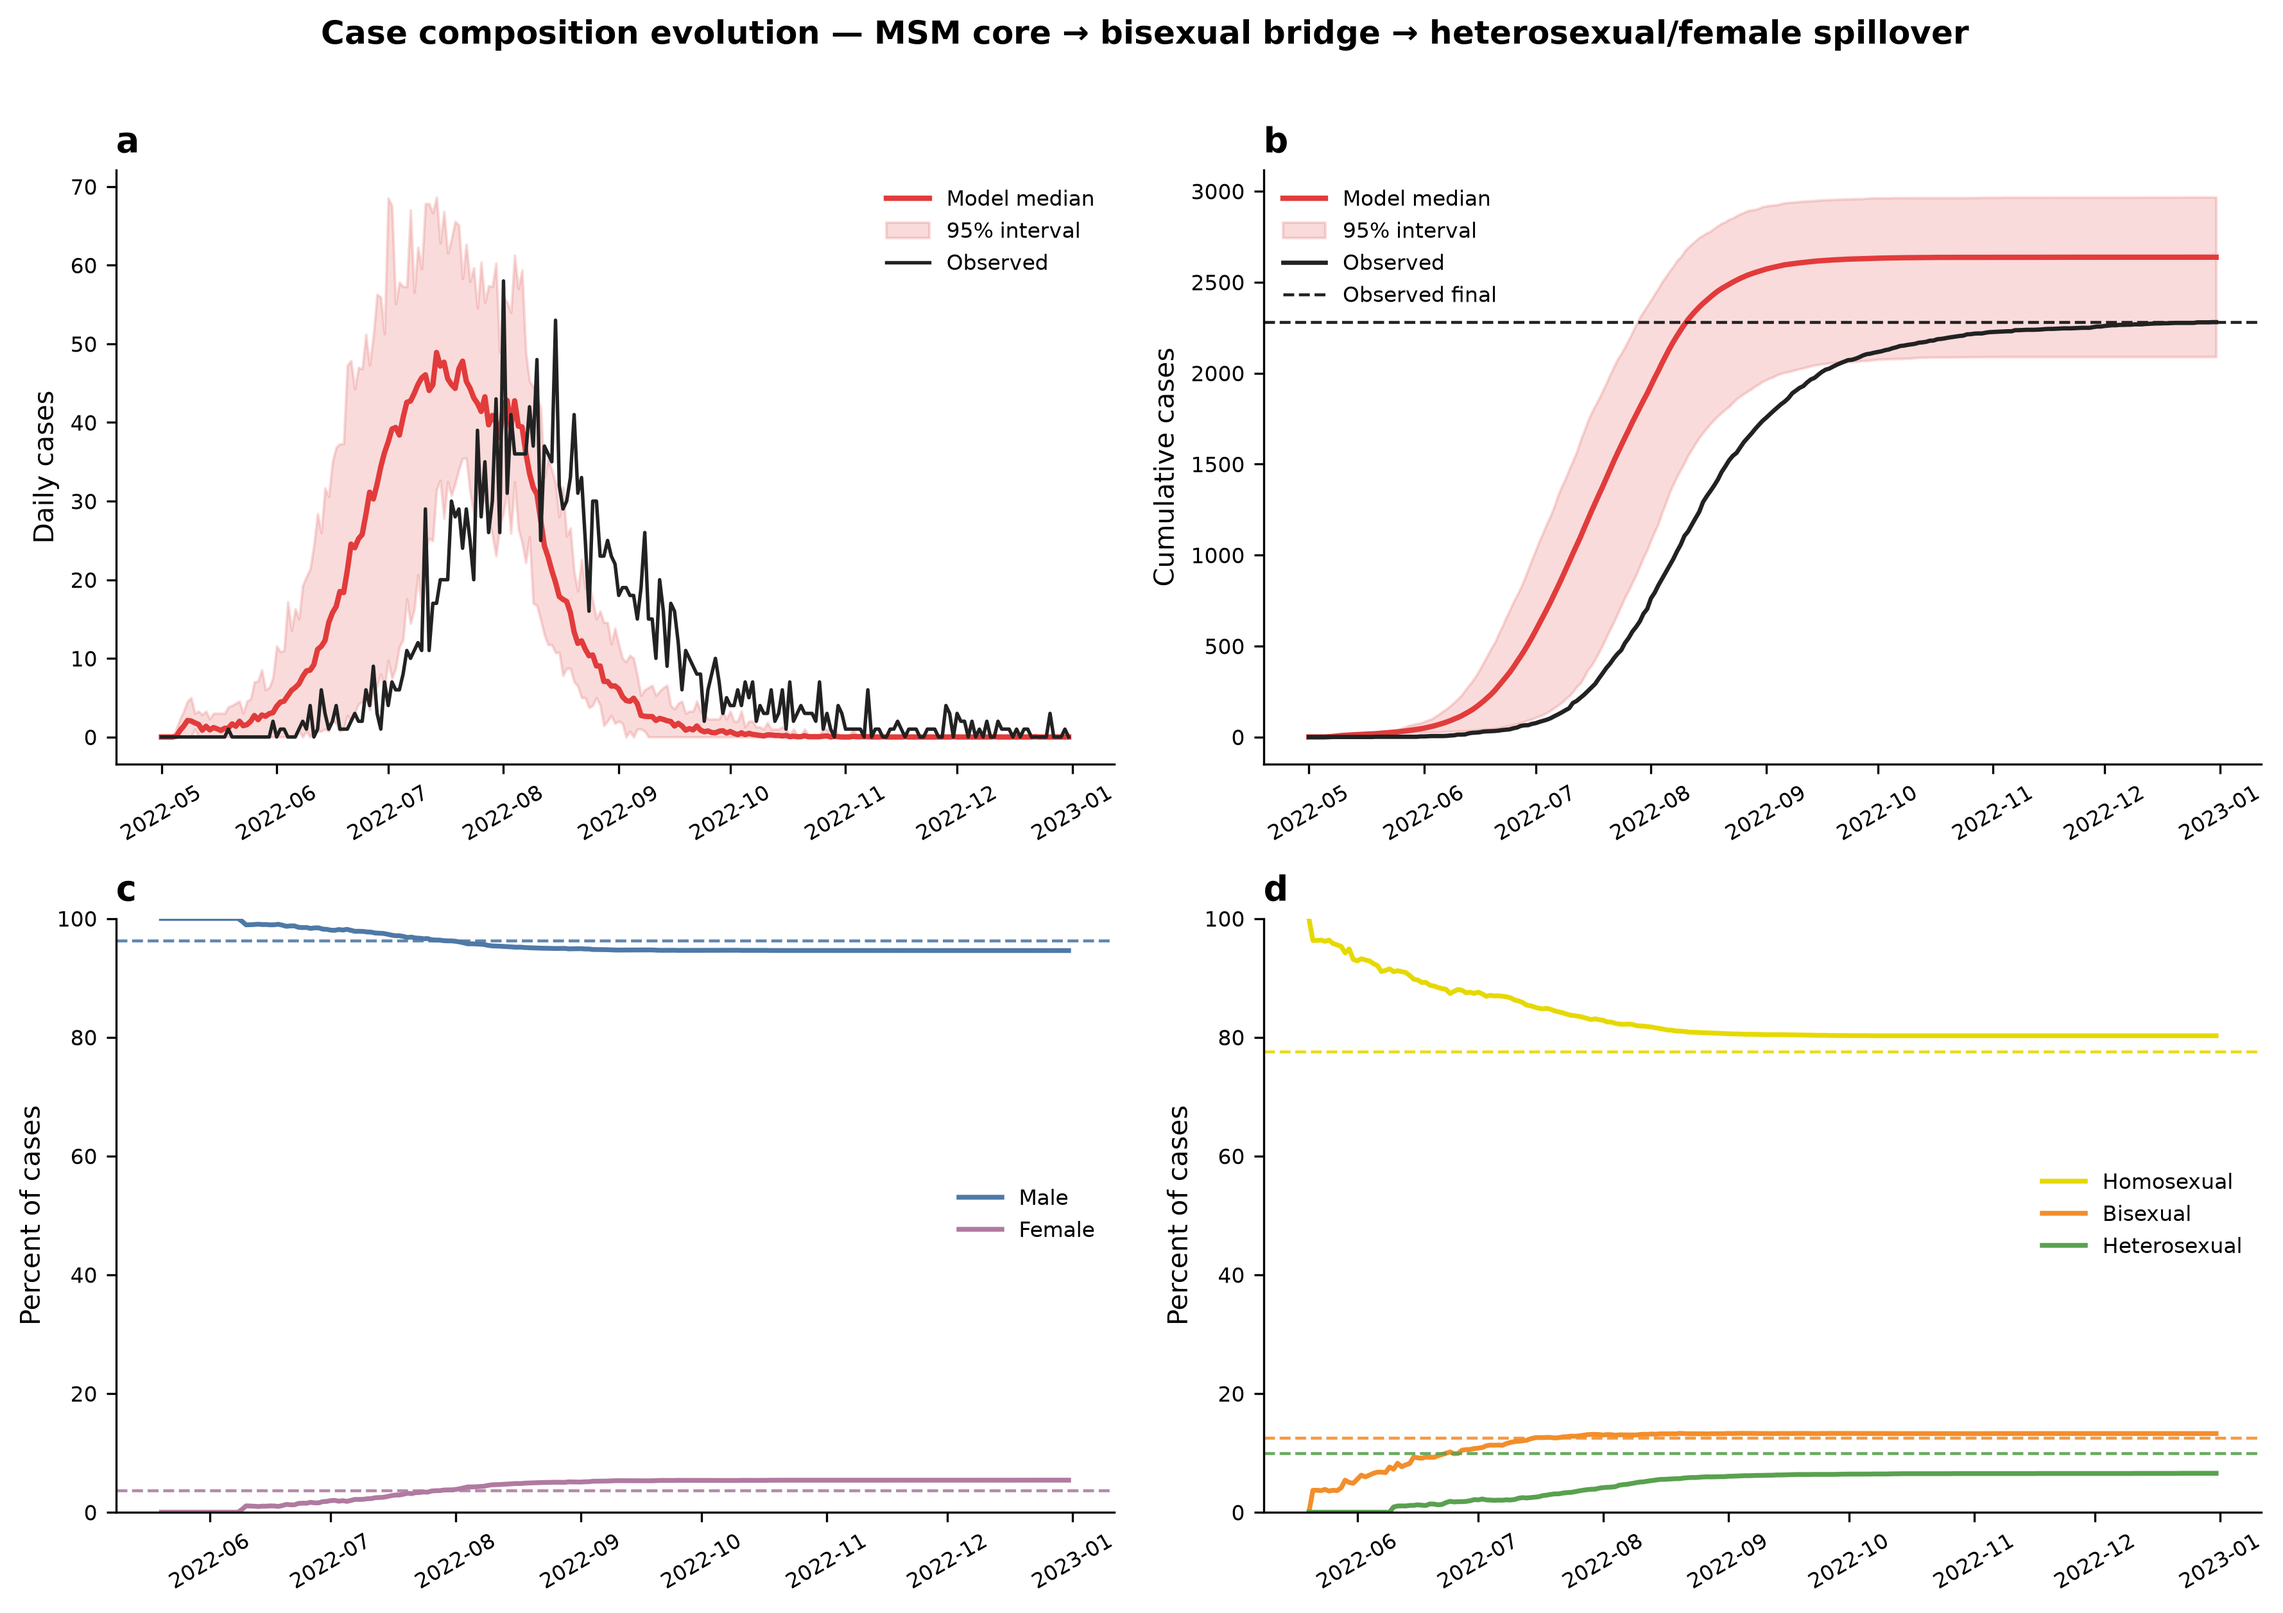
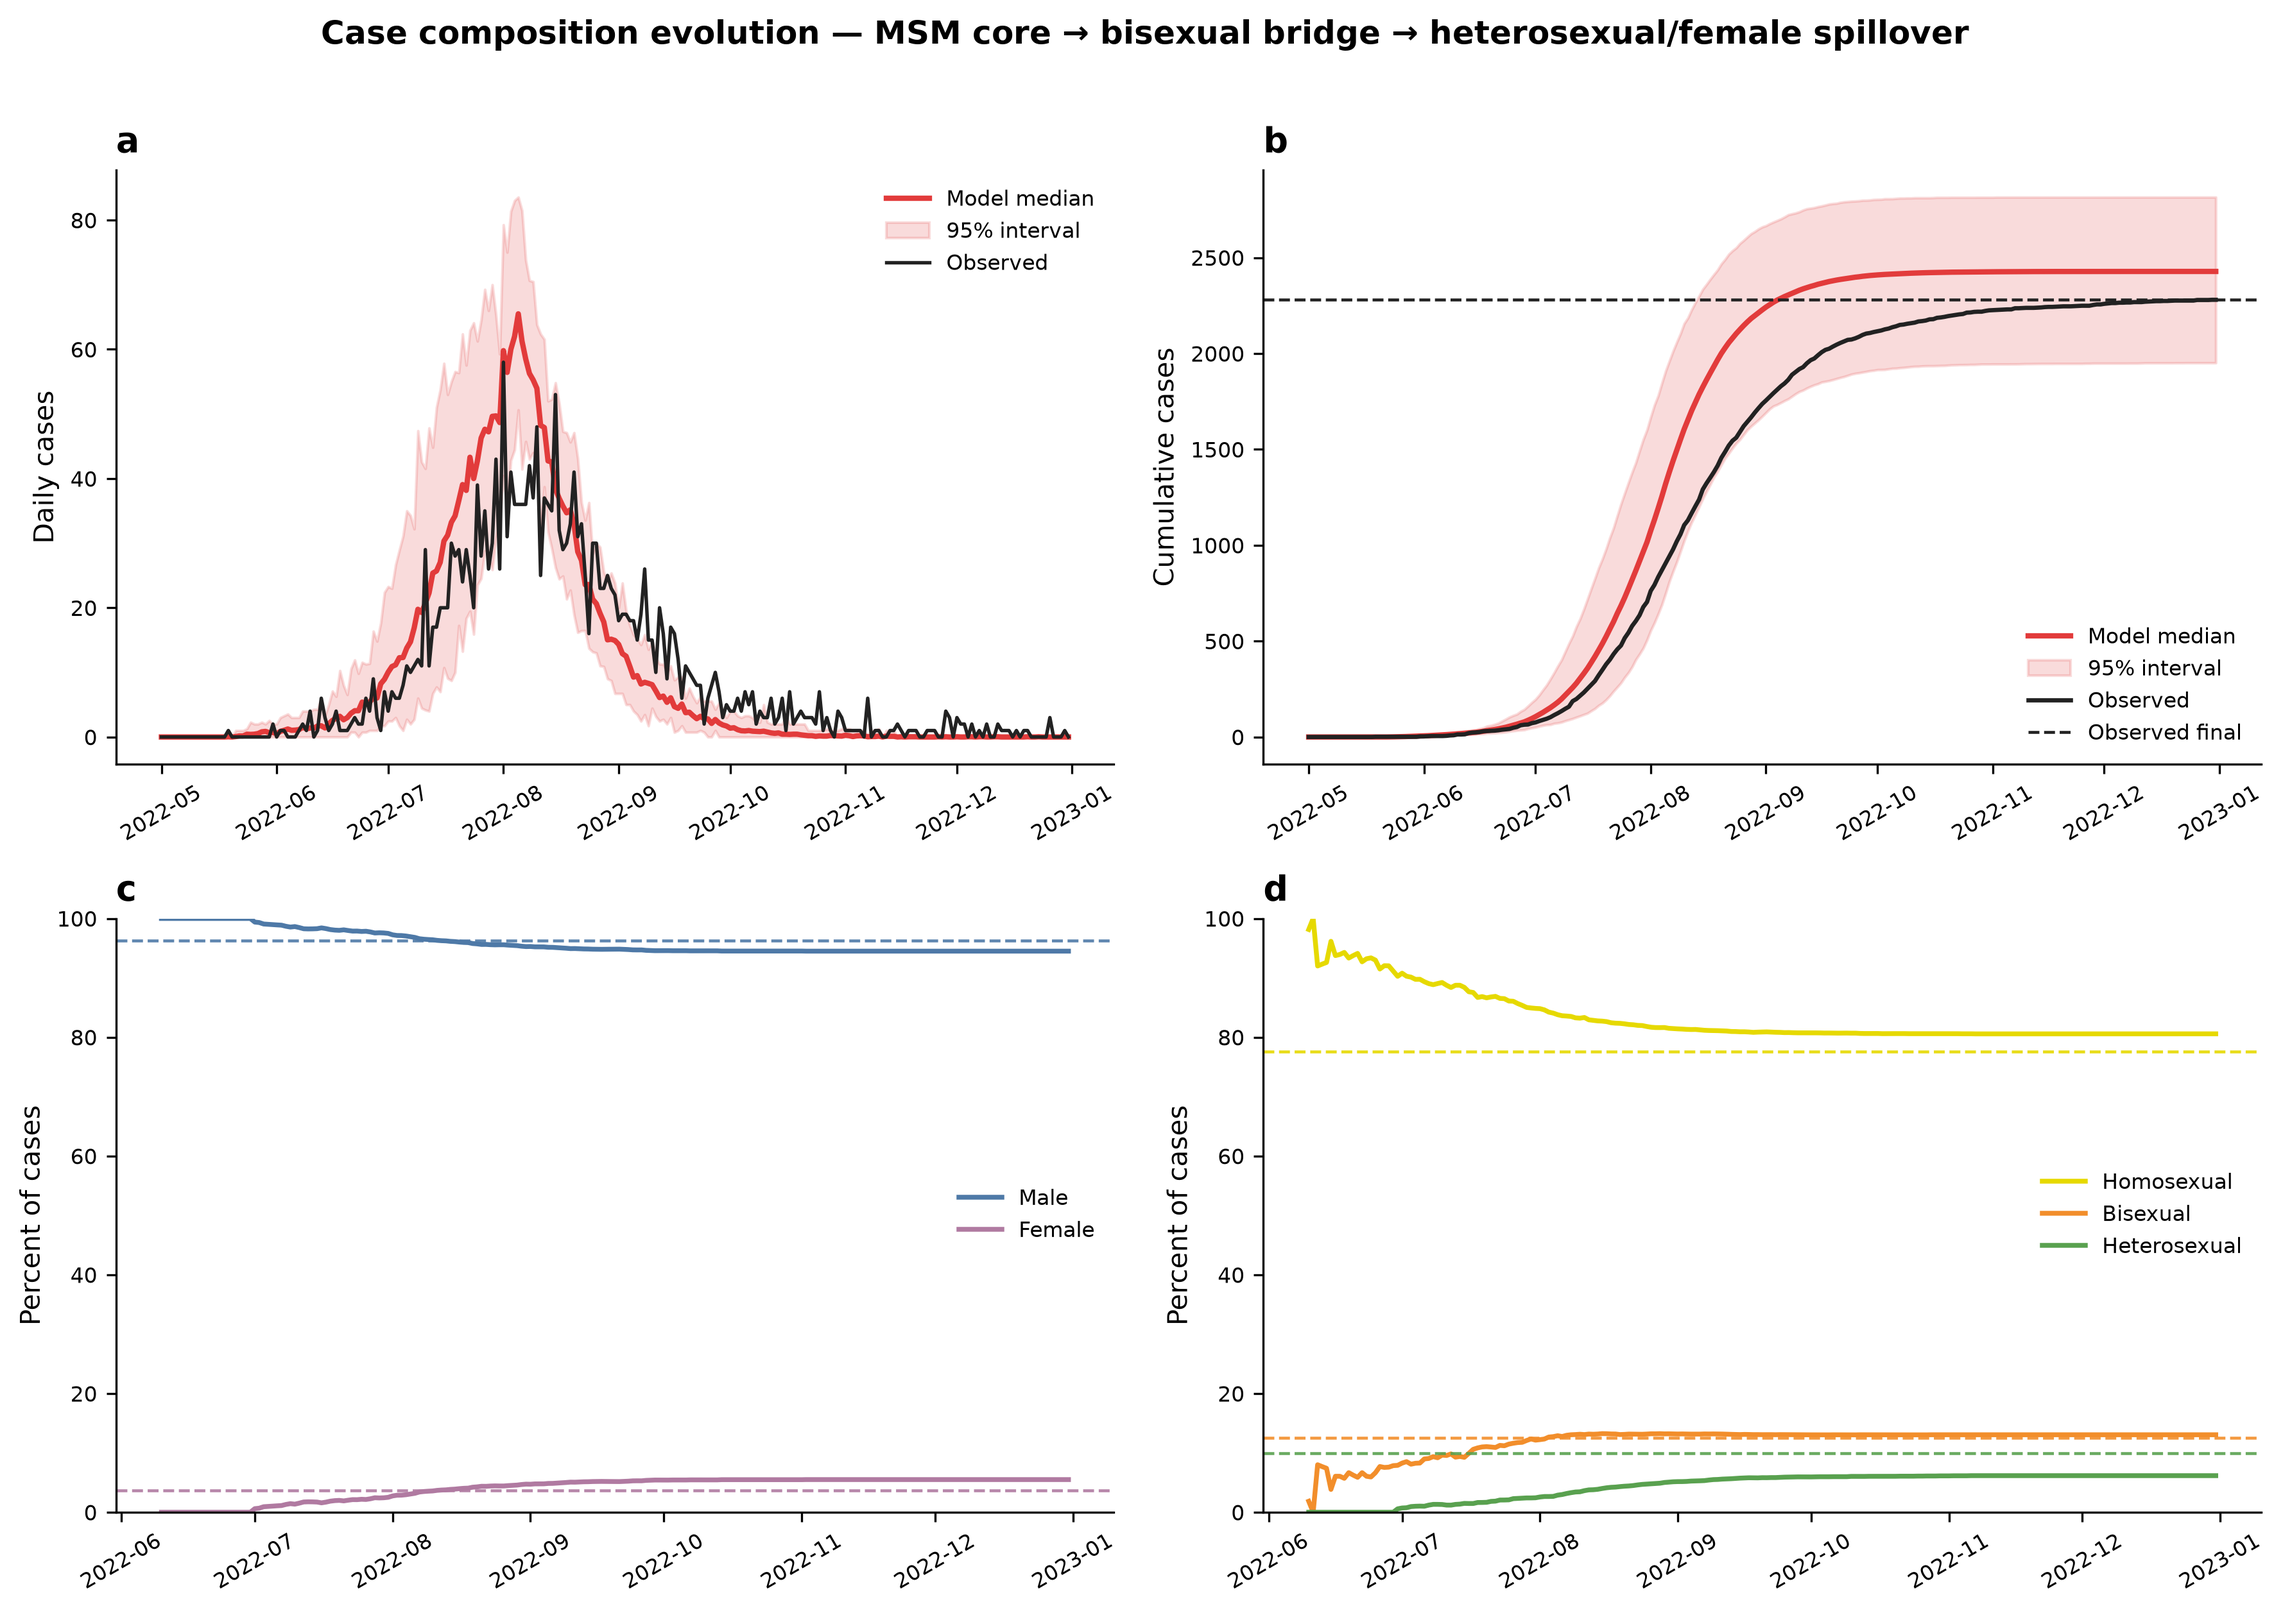
Regenerate composition-evolution figure with final v7 data
- Fix export_daily_trajectory_new.py: use sustained importation (1/2/4/1)
  instead of hardcoded importations=[] which produced zero cases
- make_fig_composition_evolution.py: add --traj flag, default to v7
- Rebuild fig_composition_evolution with v7 30-seed daily trajectory

diff --git a/feasibility/export_daily_trajectory_new.py b/feasibility/export_daily_trajectory_new.py
@@ -92,14 +92,22 @@ def run_seed(seed: int, pop_size: int, sim_days: int) -> dict:
              test_seek_delay_mean_days=4.5, test_seek_delay_sd_days=2.5, lab_turnaround_days=2),
     ]
 
+    # Sustained-importation ignition (matches main.py / validate_importation_30seed.py):
+    # zero day-0 seed + four-phase importation 1/2/4/1 cases/day.
+    importations = [
+        dict(start=15, end=44, daily_n=1),
+        dict(start=45, end=74, daily_n=2),
+        dict(start=75, end=104, daily_n=4),
+        dict(start=105, end=134, daily_n=1),
+    ]
     pop = Population(n=pop_size, params=params, seed=seed, cache_label=f"traj_new_{seed}",
-                     policy=policy, importations=[])
+                     policy=policy, importations=importations)
     g, o, mcp = pop.genders, pop.orientations, pop.mcp_flags
     mask = (g == 0) & (o == "homo") & mcp
     pop.importation_mask = mask
     np.random.seed(seed)
     pop._rng = np.random.default_rng(seed)
-    pop.seed_infection(_main.INITIAL_INFECTIONS, mask=mask)
+    # NO seed_infection (seed0 scheme)
     pop.run_simulation(sim_days)
 
     T = int(min(len(getattr(pop, "daily_new_diagnoses", [])),

diff --git a/feasibility/make_fig_composition_evolution.py b/feasibility/make_fig_composition_evolution.py
@@ -23,7 +23,13 @@ matplotlib.use("Agg")
 import matplotlib.pyplot as plt
 
 ROOT = os.path.dirname(os.path.dirname(os.path.abspath(__file__)))
-TRAJ = os.path.join(ROOT, "outputs", "v4_daily_trajectory")
+# Data directory: default to the final v7 daily trajectory; override with --traj.
+import argparse as _ap
+_parser = _ap.ArgumentParser(add_help=False)
+_parser.add_argument("--traj", default=None)
+_args, _ = _parser.parse_known_args()
+TRAJ = os.path.join(ROOT, "outputs",
+                    _args.traj if _args.traj else "v7_daily_trajectory")
 SUMMARY = os.path.join(TRAJ, "daily_trajectory_summary_by_day.csv")
 LONG = os.path.join(TRAJ, "daily_trajectory_long.csv")
 OUTDIR = os.path.join(ROOT, "outputs", "figures")
